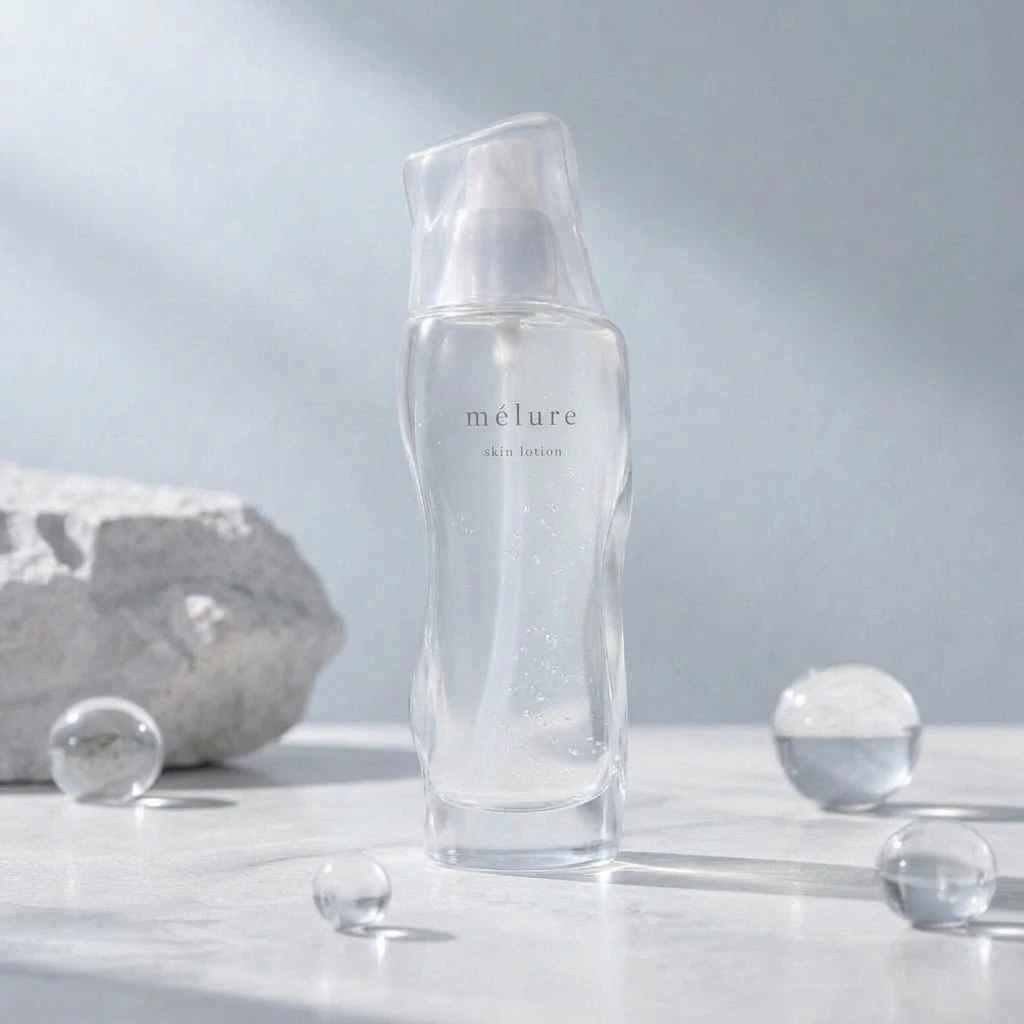
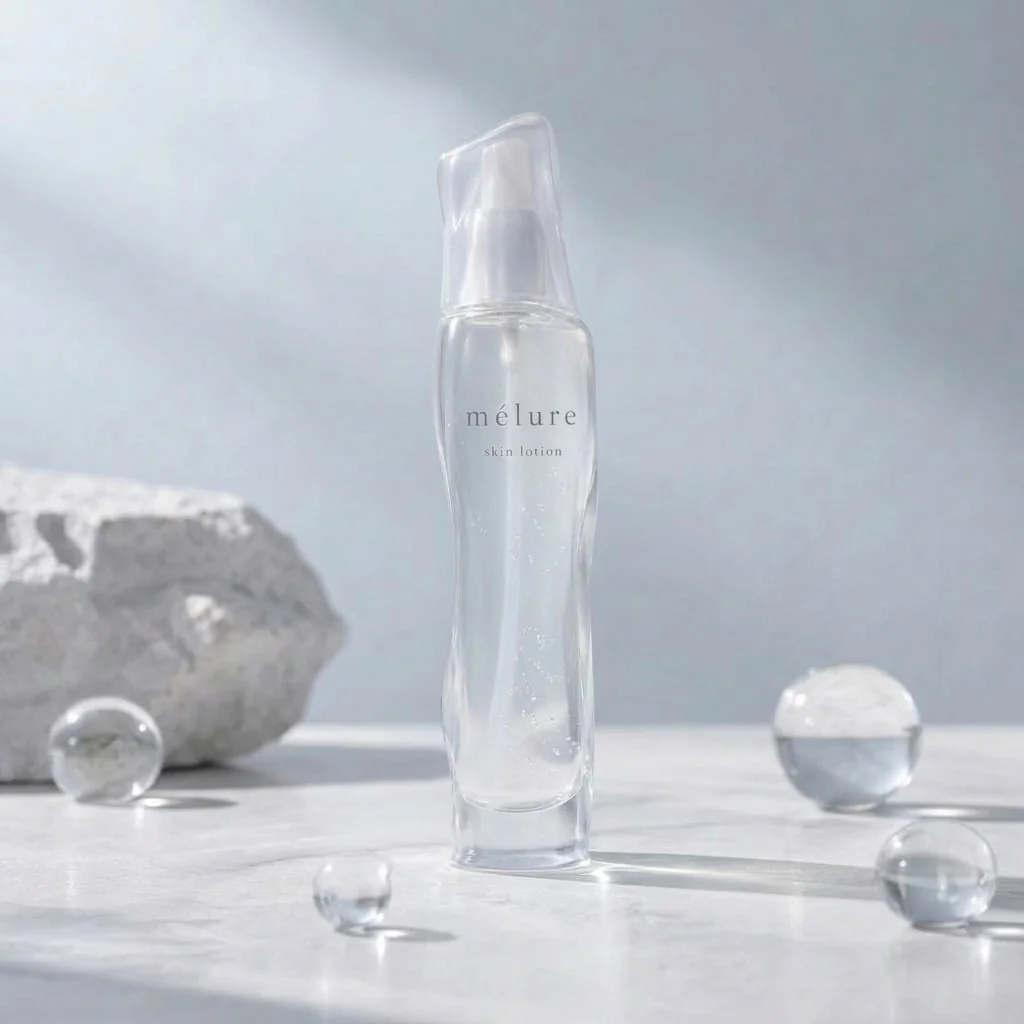
化粧水を細く背の高いボトル、美容液をしずく型にして形を描き分ける

diff --git a/b/index.html b/b/index.html
@@ -179,7 +179,7 @@ footer{padding-bottom:96px}
 
     <article class="step"><div class="wrap in">
       <div><p class="num">02</p><p class="verb">与える</p></div>
-      <figure><img src="../images/lotion.webp?v=2" alt="skin lotion の背の高いポンプボトル。中に細かな泡が見える" loading="lazy"></figure>
+      <figure><img src="../images/lotion.webp?v=3" alt="skin lotion の背の高いポンプボトル。中に細かな泡が見える" loading="lazy"></figure>
       <div>
         <h3>skin lotion</h3><p class="jp">化粧水</p>
         <p class="lead">水を、のませる。</p>
@@ -190,7 +190,7 @@ footer{padding-bottom:96px}
 
     <article class="step"><div class="wrap in">
       <div><p class="num">03</p><p class="verb">満たす</p></div>
-      <figure><img src="../images/serum.webp?v=2" alt="serum の小さなボトル" loading="lazy"></figure>
+      <figure><img src="../images/serum.webp?v=3" alt="serum の小さなボトル" loading="lazy"></figure>
       <div>
         <h3>serum</h3><p class="jp">美容液</p>
         <p class="lead">ひとしずく、深く。</p>

diff --git a/a/index.html b/a/index.html
@@ -223,7 +223,7 @@ footer .logo{display:block;color:var(--ink);margin-bottom:12px}
     </article>
 
     <article class="item">
-      <figure><img src="../images/lotion.webp?v=2" alt="skin lotion の透明な背の高いポンプボトル。中に細かな泡が見える" loading="lazy"></figure>
+      <figure><img src="../images/lotion.webp?v=3" alt="skin lotion の細く背の高い透明なポンプボトル。中に細かな泡が見える" loading="lazy"></figure>
       <div class="body">
         <p class="no">ii.</p>
         <h3>skin lotion</h3>
@@ -234,7 +234,7 @@ footer .logo{display:block;color:var(--ink);margin-bottom:12px}
     </article>
 
     <article class="item">
-      <figure><img src="../images/serum.webp?v=2" alt="serum の透明な小さいボトル" loading="lazy"></figure>
+      <figure><img src="../images/serum.webp?v=3" alt="serum の下がふくらんだ、しずく型の透明なボトル" loading="lazy"></figure>
       <div class="body">
         <p class="no">iii.</p>
         <h3>serum</h3>
